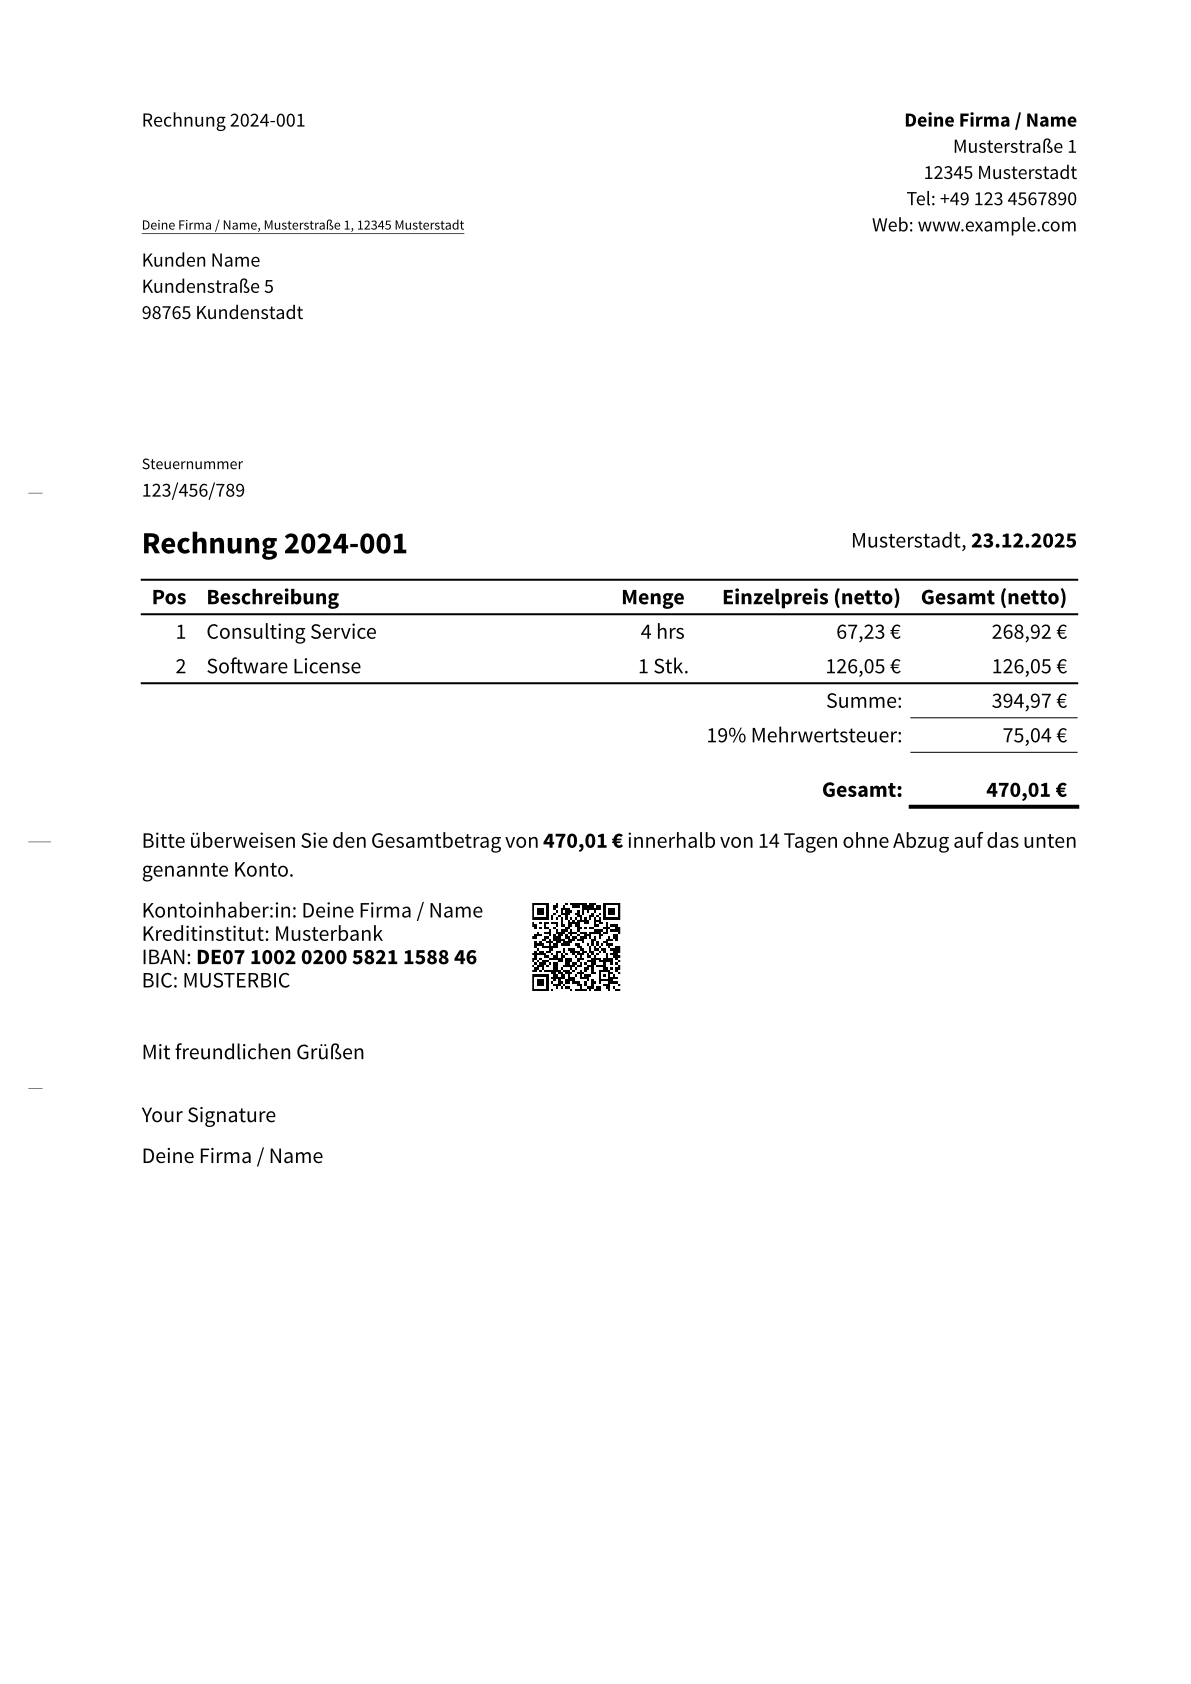
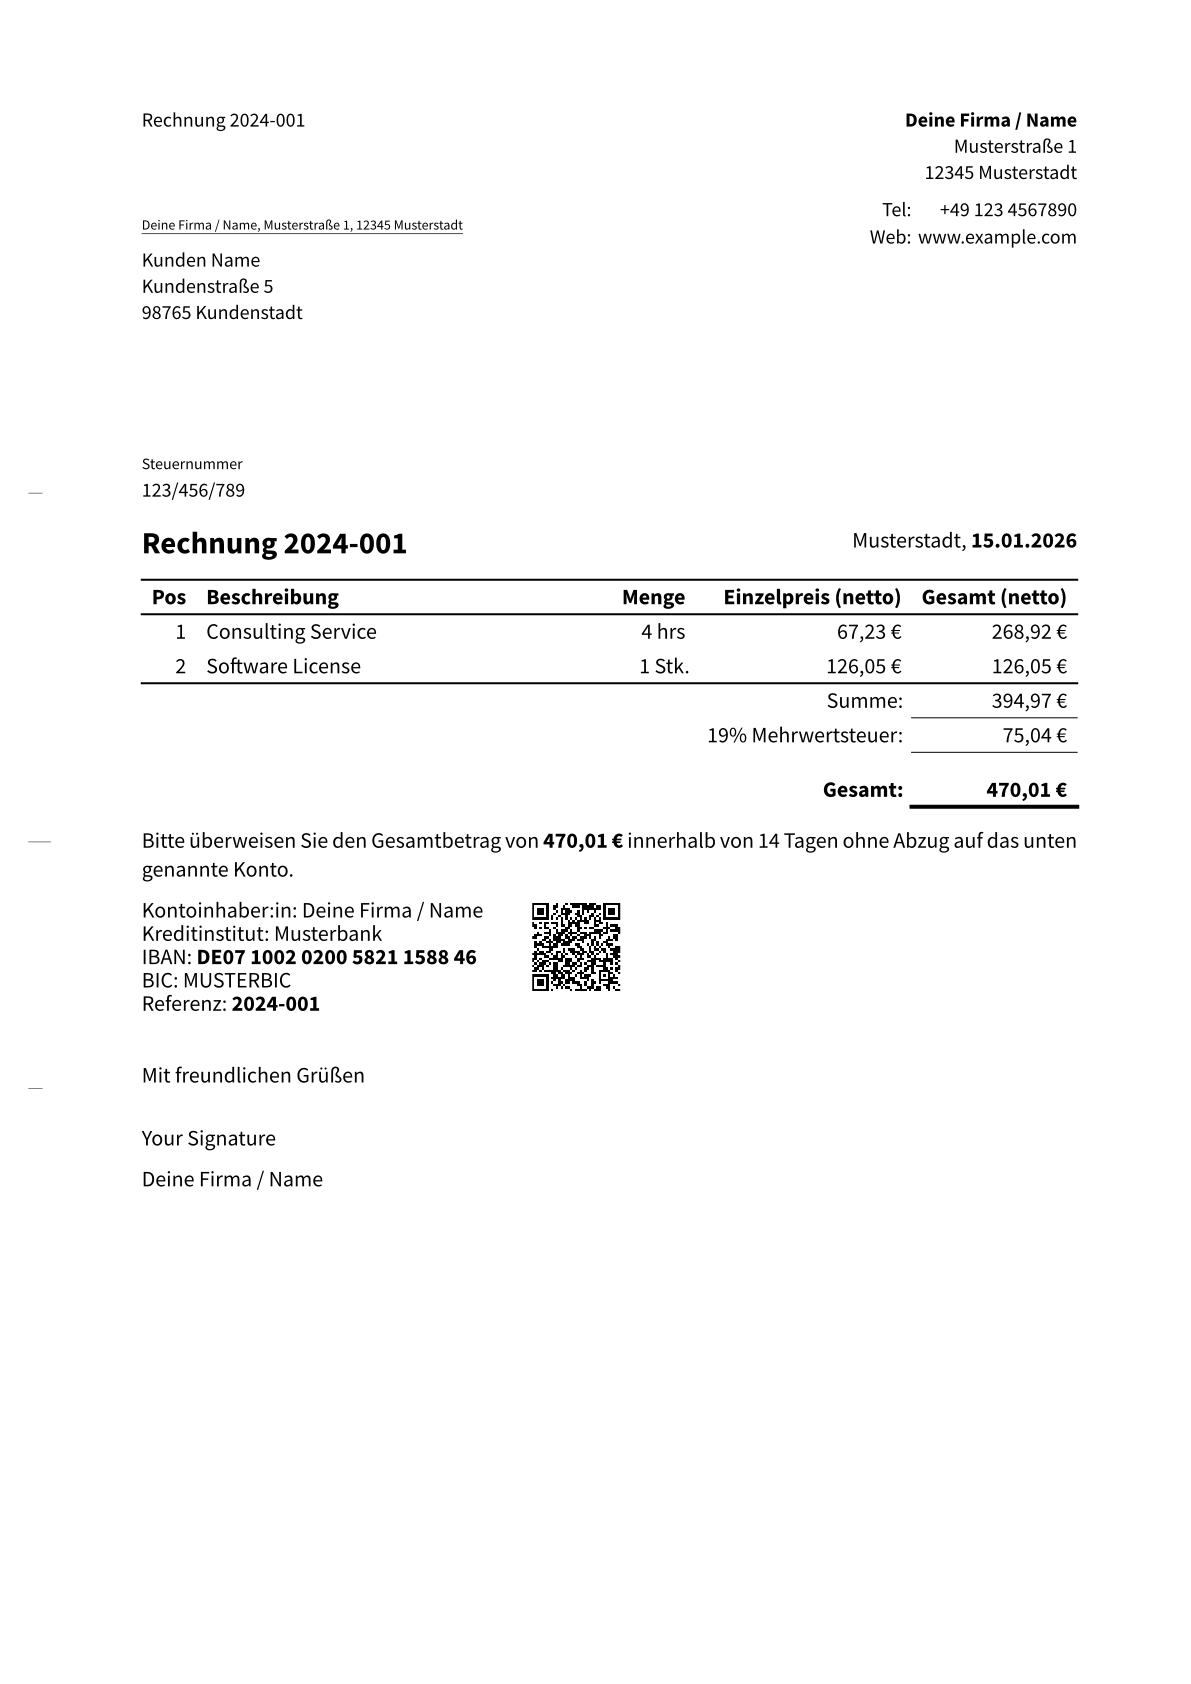
improved bank-details by adding an option to show reference number

diff --git a/README.md b/README.md
@@ -173,6 +173,48 @@ Here is a minimal example of how to create an invoice:
 
 > Bitte überweisen Sie den Gesamtbetrag von **123,45€** bis spätestens 01.01.2026 ohne Abzug auf das unten genannte Konto.
 
+### `bank-details` function
+
+Renders a block containing the bank details and an optional EPC-QR-Code (GiroCode) for easy mobile payment.
+
+| Argument              | Type         | Description                                                                                        |
+| --------------------- | ------------ | -------------------------------------------------------------------------------------------------- |
+| `bank`                | `str`        | `content`                                                                                          |
+| `iban`                | `str`        | **Required.** The IBAN (formatting is handled automatically).                                      |
+| `bic`                 | `str`        | **Required.** The BIC (Bank Identifier Code).                                                      |
+| `name`                | `auto`       | `str`                                                                                              |
+| `reference`           | `str`        | `none`                                                                                             |
+| `show-refernce`       | `bool`       | Toggles visibility of the reference line. (Note: Parameter is currently spelled `show-refernce`) . |
+| `payment-amount`      | `float`      | `auto`                                                                                             |
+| `account-holder-text` | `str`        | `content`                                                                                          |
+| `qr-code`             | `dictionary` | Configuration for the QR code `(display: bool, size: length)`. Default size is `4em`.              |
+
+```typst
+// Standard usage with automatic total and reference
+#bank-details(
+  bank: "Sparkasse Musterstadt",
+  iban: "DE00 1234 5678 9012 3456 78",
+  bic: "SPKDE...",
+)
+
+// Customizing the QR code size and reference text
+#bank-details(
+  bank: "Neo Bank",
+  iban: "DE99...",
+  bic: "NEO...",
+  reference: "Rechnungs-Nr. 2024-001 / Kundennummer 55",
+  qr-code: (size: 3cm)
+)
+
+// Hiding the QR Code
+#bank-details(
+  bank: "Oldschool Bank",
+  iban: "DE11...",
+  bic: "OLD...",
+  qr-code: (display: false)
+)
+```
+
 ## 🛠 Development
 
 This project uses **Nix** to provide a reproducible, sandboxed development environment. You do not need to install Typst, linters, or formatters globally—the flake provides everything.
